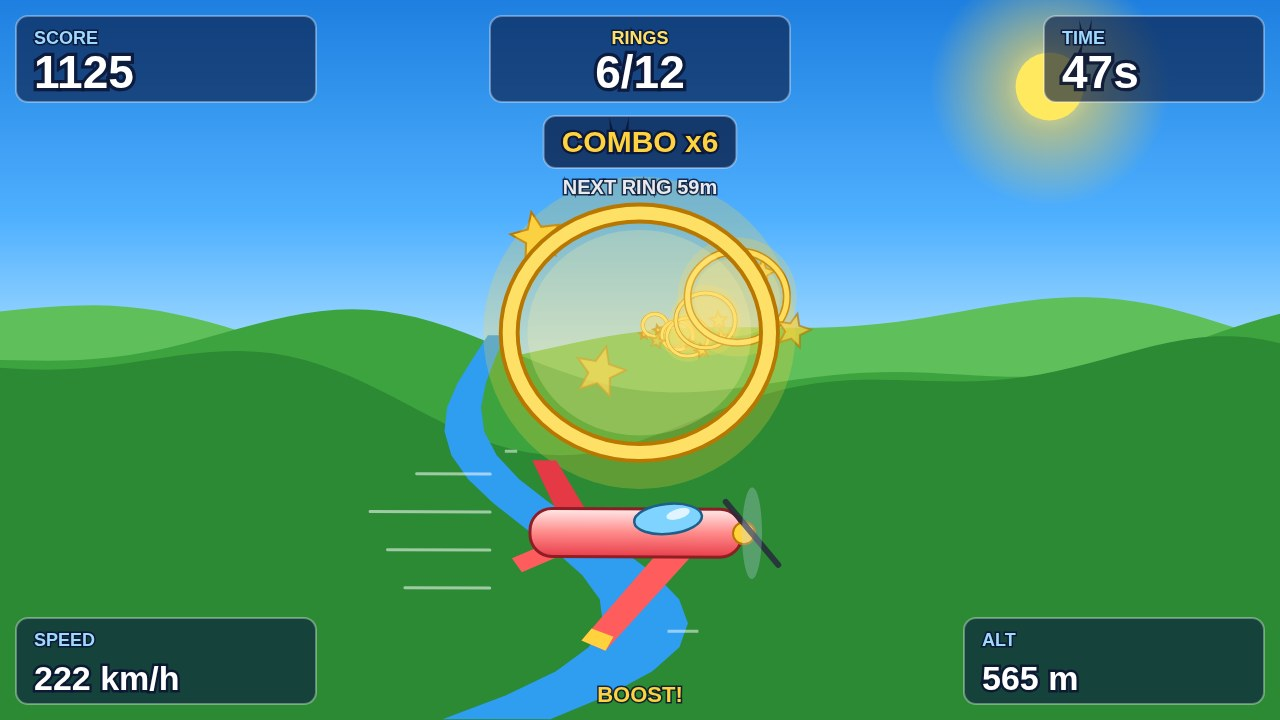
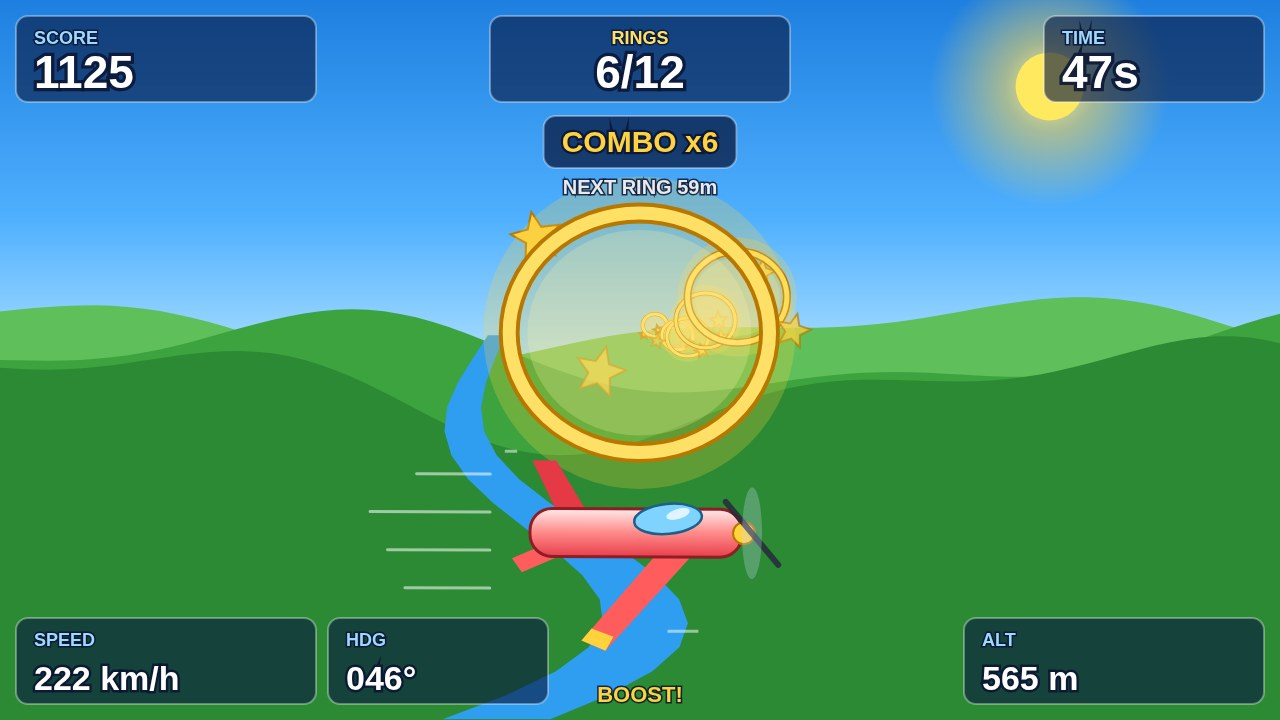
Add HDG heading chip to HUD

Changed region(s): [[0.25, 0.8556, 0.4375, 0.9778]]

diff --git a/game/src/render.js b/game/src/render.js
@@ -343,6 +343,10 @@ function drawHud(ctx, state, W, H) {
   panel(ctx, pad, H - pad - 86, 300, 86, 0.62);
   text(ctx, 'SPEED', pad + 18, H - pad - 58, 18, '#9fd8ff', 800);
   text(ctx, `${Math.round(state.speed * 3.6)} km/h`, pad + 18, H - pad - 14, 34, '#ffffff', 900);
+  // Heading chip, between SPEED and ALT so the three flight gauges sit together.
+  panel(ctx, pad + 312, H - pad - 86, 220, 86, 0.62);
+  text(ctx, 'HDG', pad + 330, H - pad - 58, 18, '#9fd8ff', 800);
+  text(ctx, `${String(Math.round(state.heading ?? 42)).padStart(3, '0')}°`, pad + 330, H - pad - 14, 34, '#ffffff', 900);
   // Bottom-right: altitude + combo.
   panel(ctx, W - pad - 300, H - pad - 86, 300, 86, 0.62);
   text(ctx, 'ALT', W - pad - 282, H - pad - 58, 18, '#9fd8ff', 800);

diff --git a/game/src/world.js b/game/src/world.js
@@ -71,6 +71,8 @@ export function newGame(seed) {
     vx: 0,
     vy: 0,
     bank: 0,
+    // Compass heading in degrees: starts at 042, banking left/right turns it.
+    heading: 42,
     z: 0,
     speed: BASE_SPEED,
     boosting: false,
@@ -134,6 +136,8 @@ export function stepGame(state, input, dt) {
   state.px = clamp(state.px + state.vx * dt, -1.15, 1.15);
   state.py = clamp(state.py + state.vy * dt, 0.05, 0.98);
   state.bank = lerp(state.bank, -state.vx * 0.55, Math.min(1, dt * 8));
+  // Heading follows the bank: steering right turns the nose clockwise.
+  state.heading = (((state.heading + state.vx * dt * 14) % 360) + 360) % 360;
   state.z += state.speed * dt;
   state.travelled = state.z;
 
